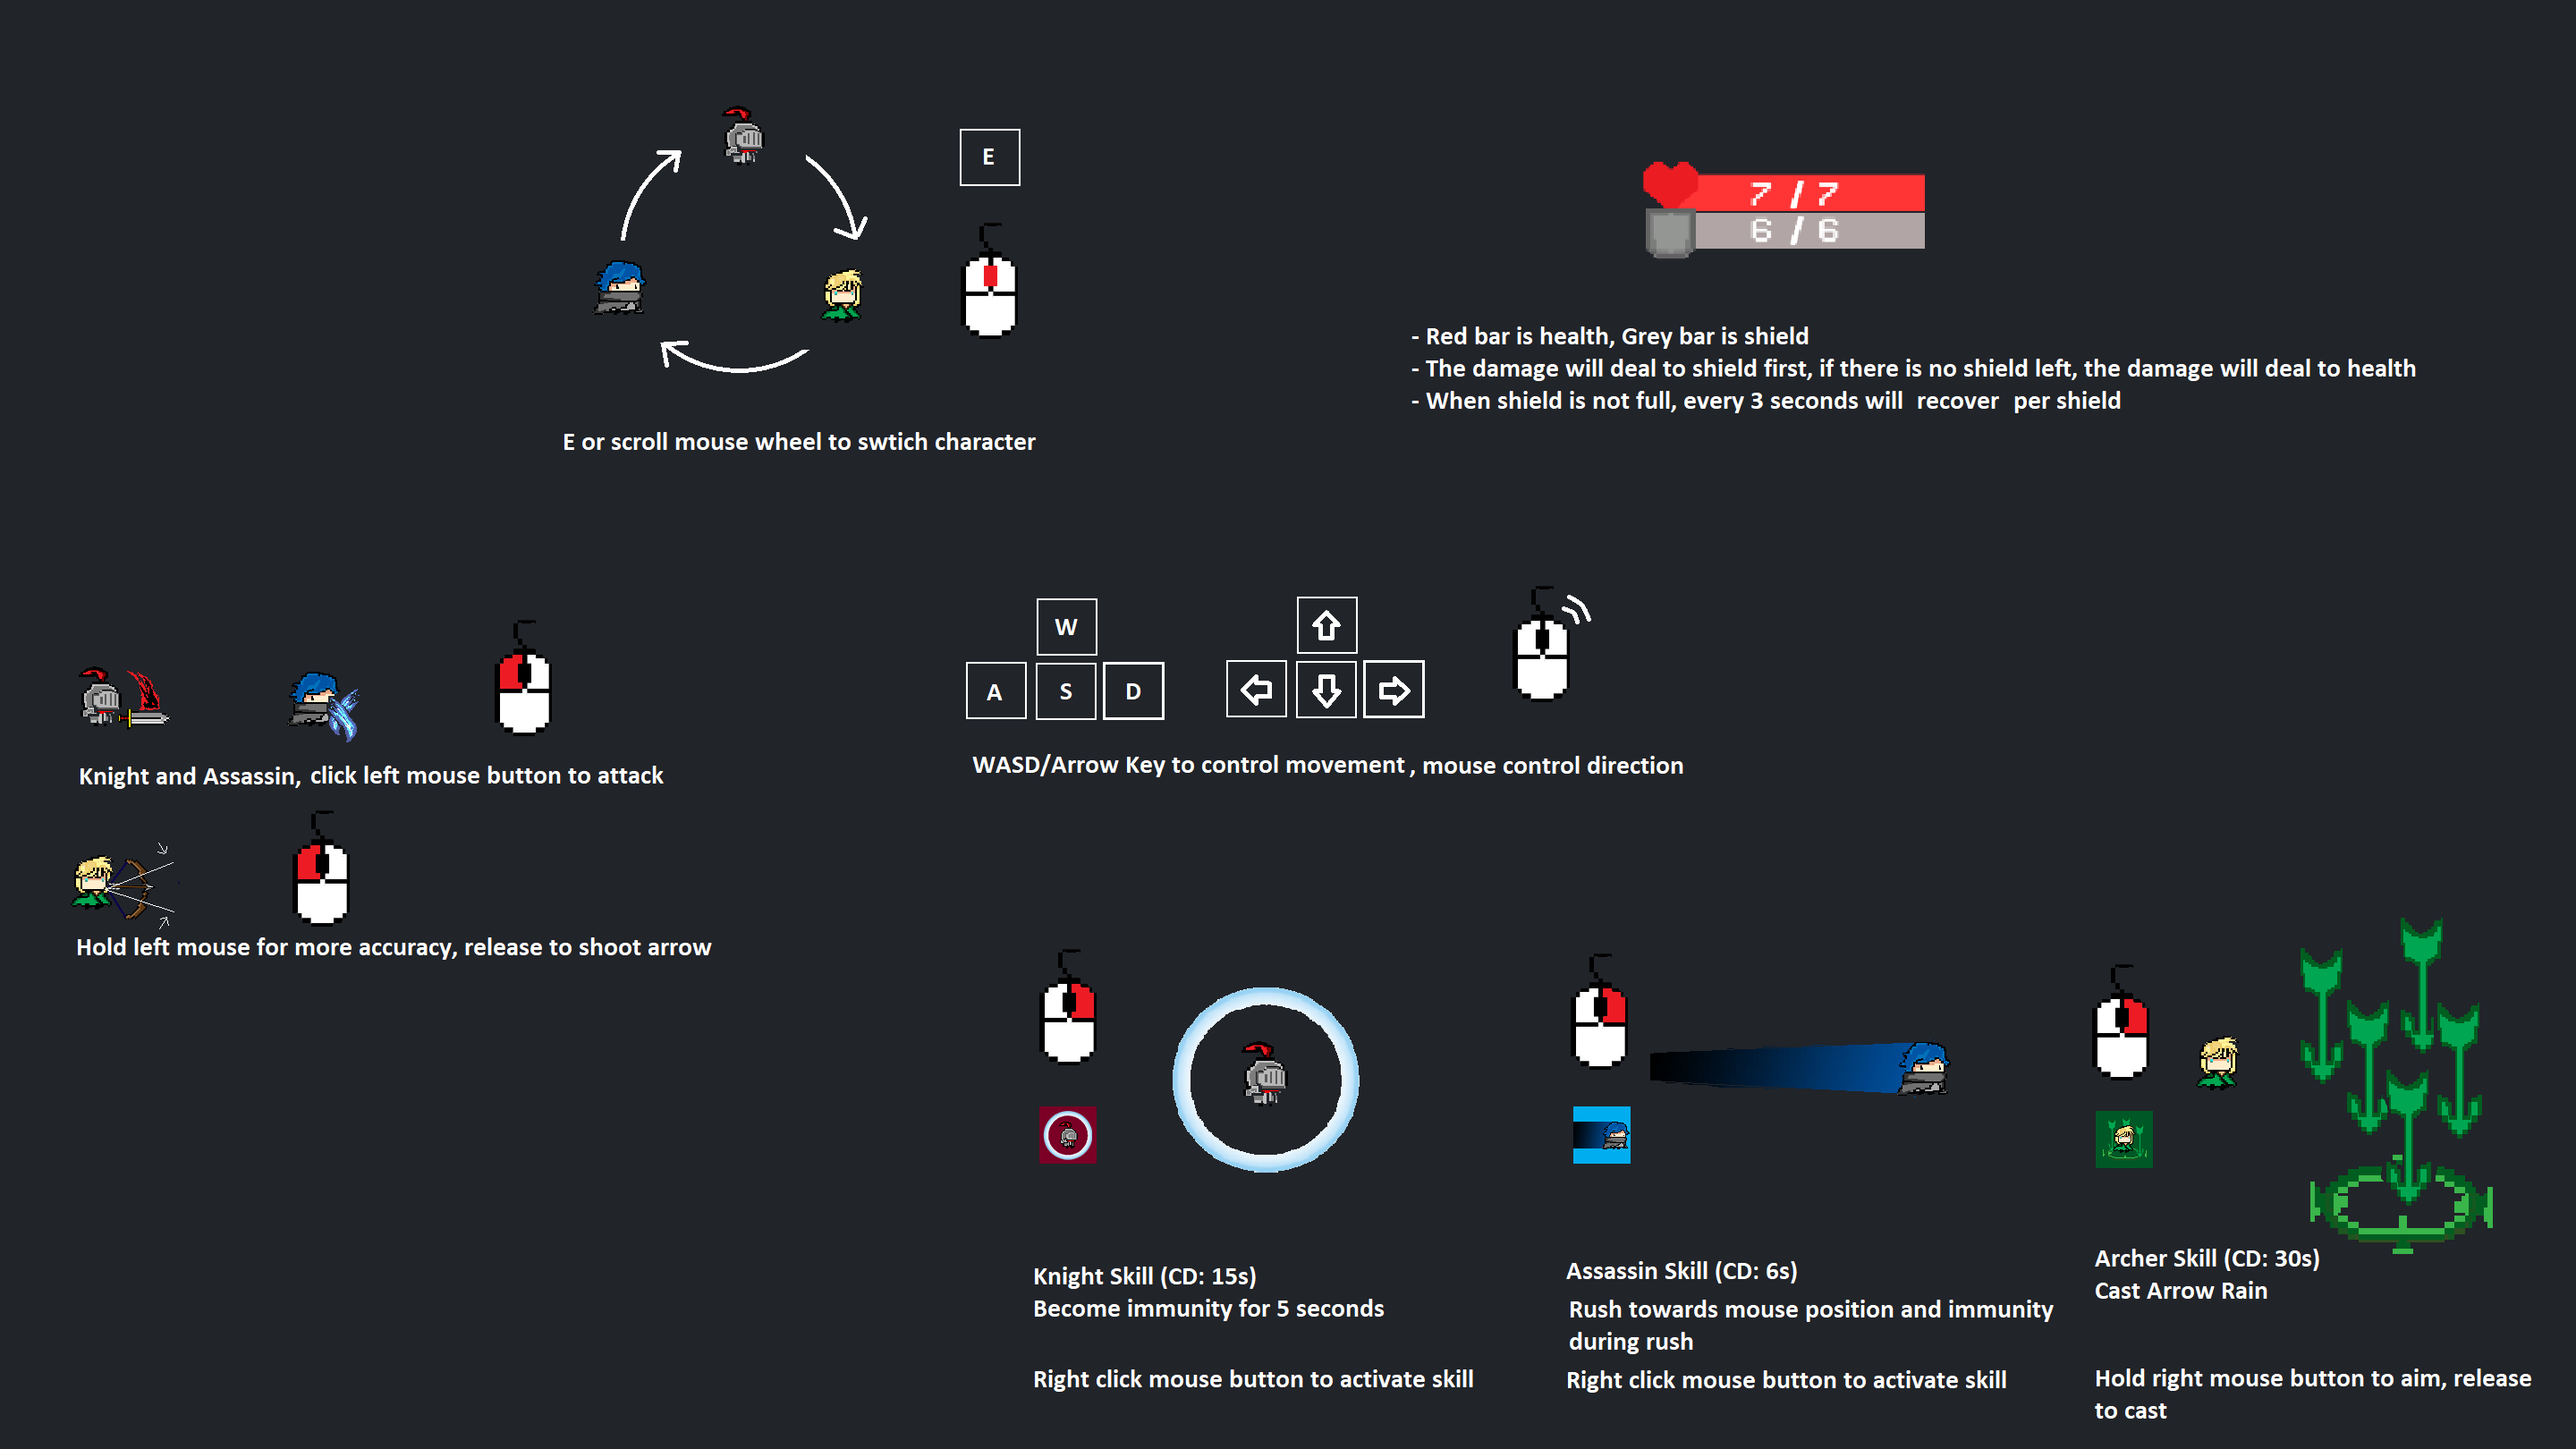
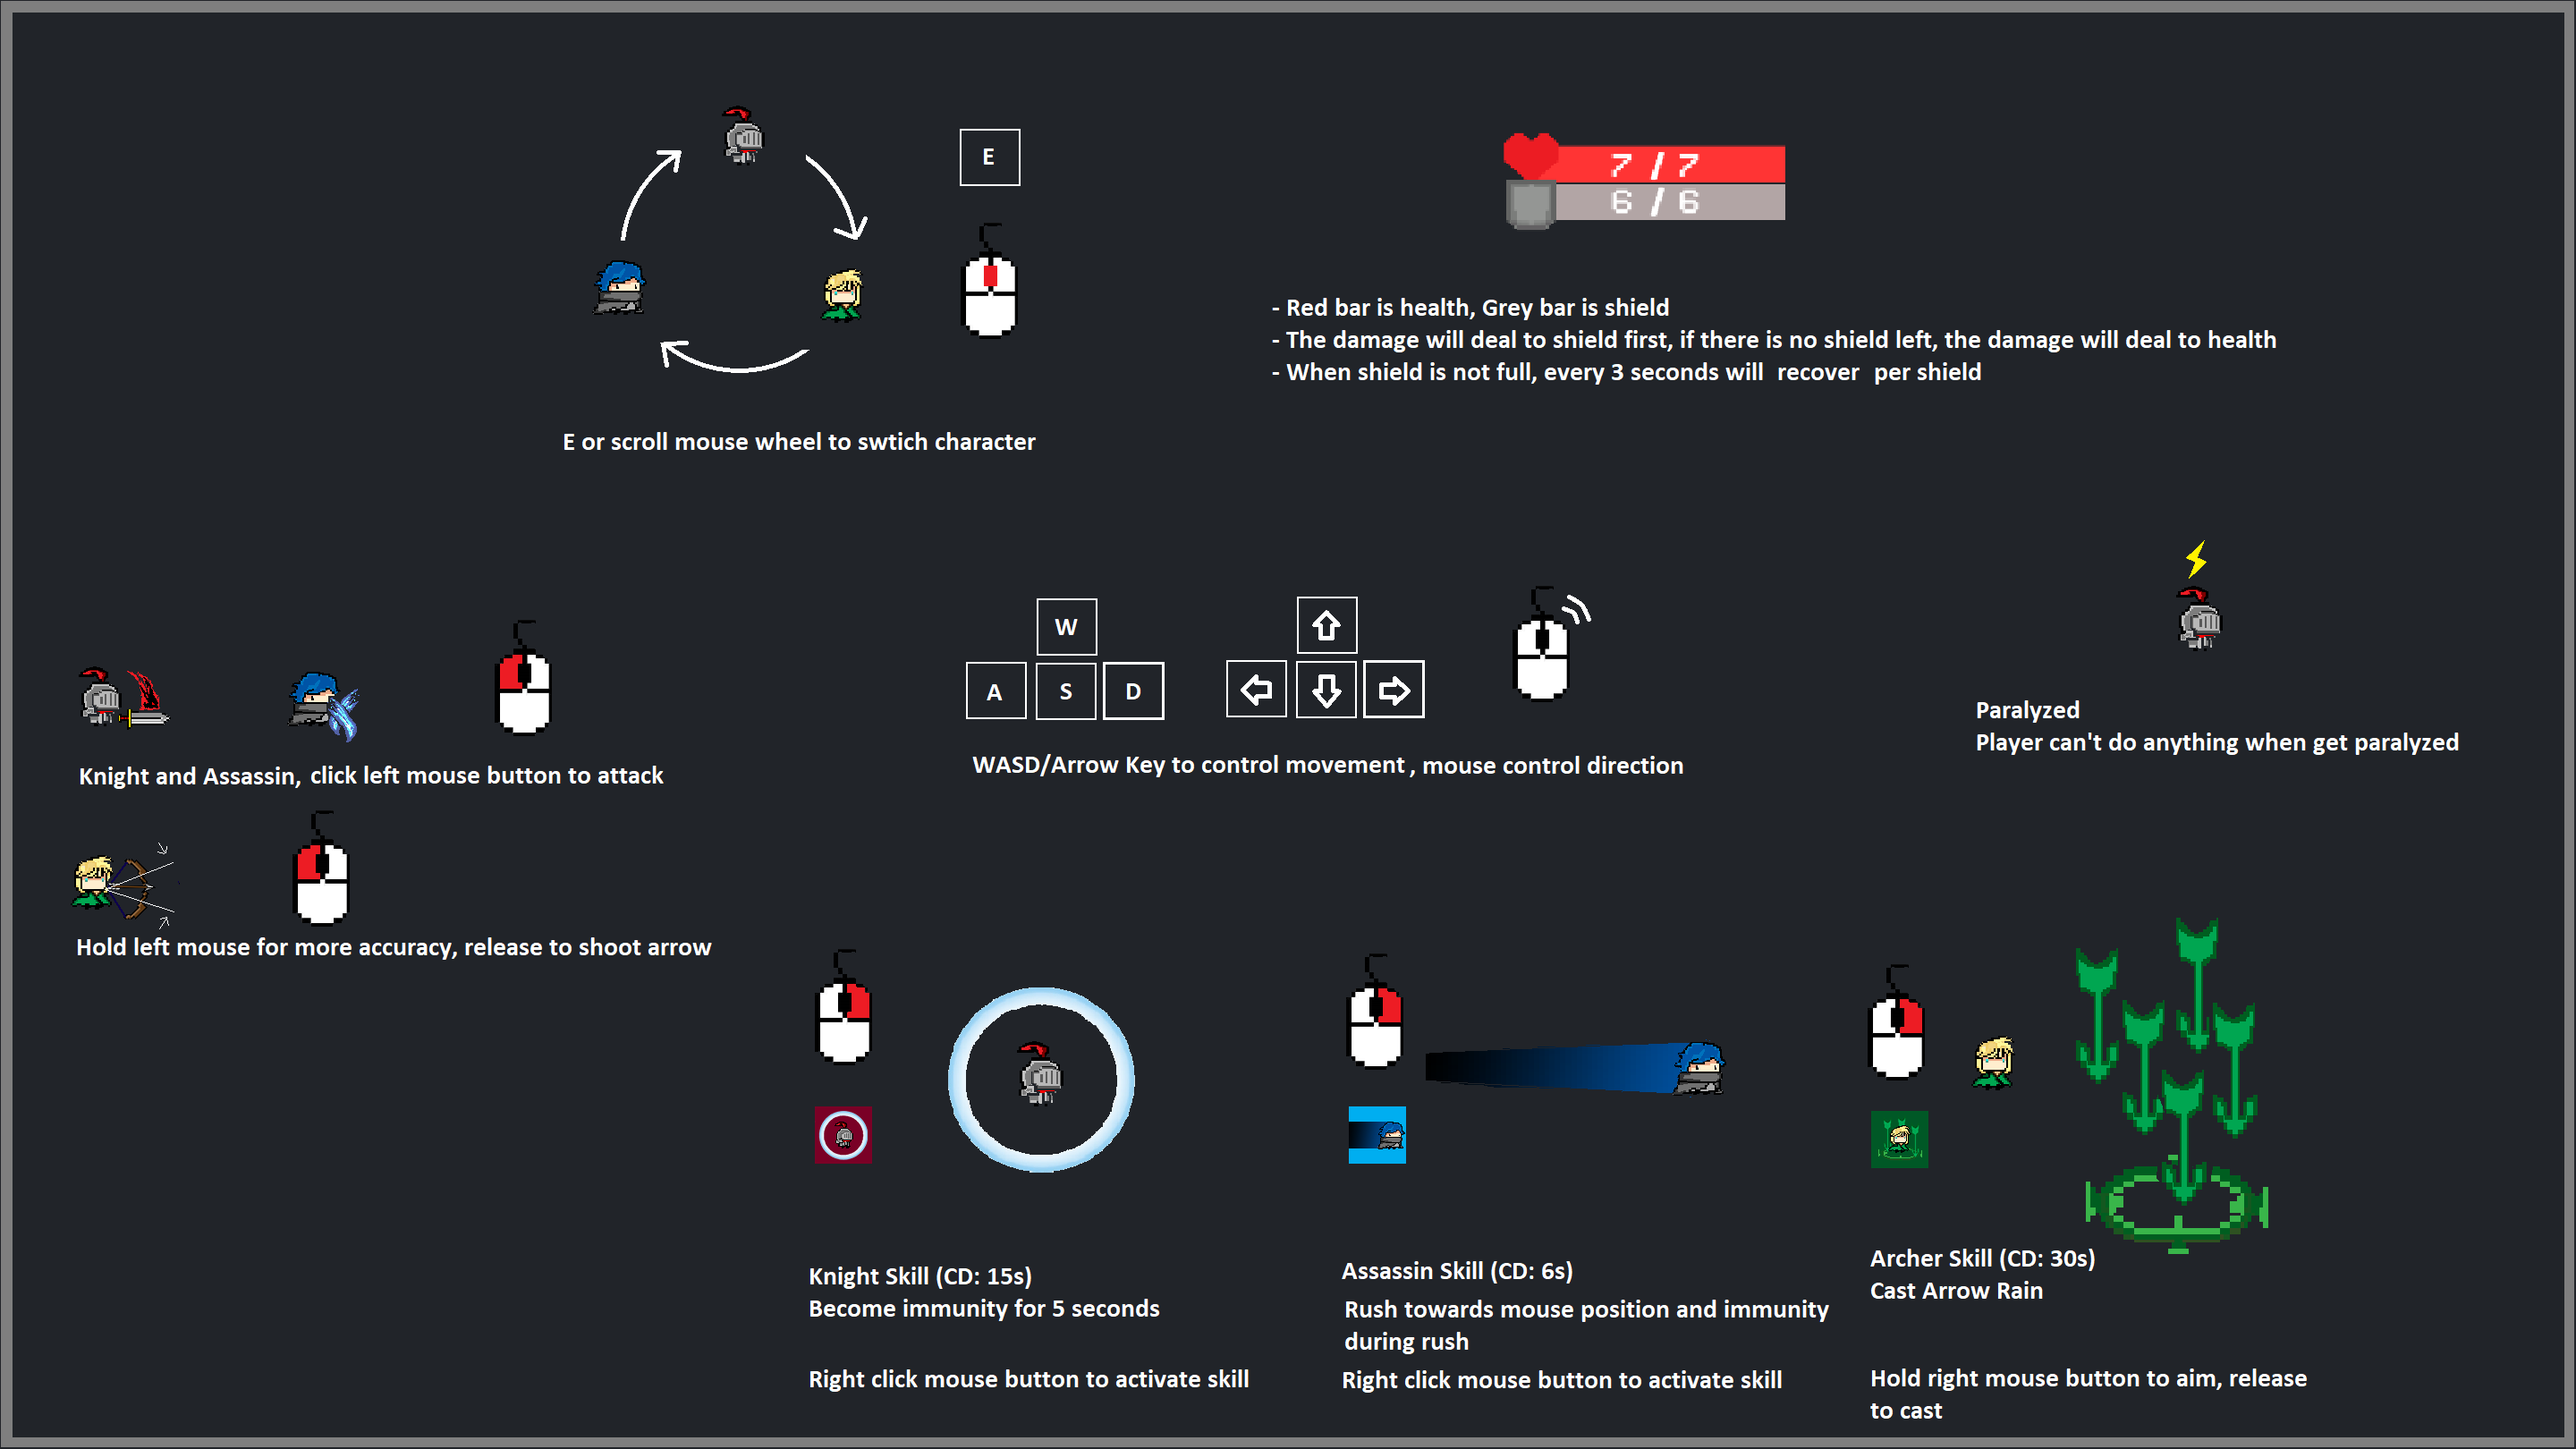
Adjustment on tutorial, assassin skill and bullet dmg

Changed region(s): [[0.0, 0.0, 1.0, 1.0], [0.5, 0.0926, 0.9375, 0.2778], [0.8438, 0.4012, 0.875, 0.463]]

diff --git a/Assets/1_Scripts/Enemy/EnemyBulletBounce.cs b/Assets/1_Scripts/Enemy/EnemyBulletBounce.cs
@@ -45,7 +45,7 @@ public class EnemyBulletBounce : MonoBehaviour
         {
             if (!col.isTrigger)
             {
-                col.gameObject.GetComponent<PlayerCore>().PlayerDamaged(2);
+                col.gameObject.GetComponent<PlayerCore>().PlayerDamaged(4);
                 Destroy(gameObject);
             }
         }

diff --git a/Assets/1_Scripts/Player/PlayerController.cs b/Assets/1_Scripts/Player/PlayerController.cs
@@ -224,7 +224,7 @@ public class PlayerController : MonoBehaviour
 
     IEnumerator AssasinGo()
     {
-        yield return new WaitForSeconds(0.3f);
+        yield return new WaitForSeconds(0.8f);
         rb.velocity = Vector2.zero;
         playerCore.immunity = false;
         playerCore.trail.SetActive(false);
